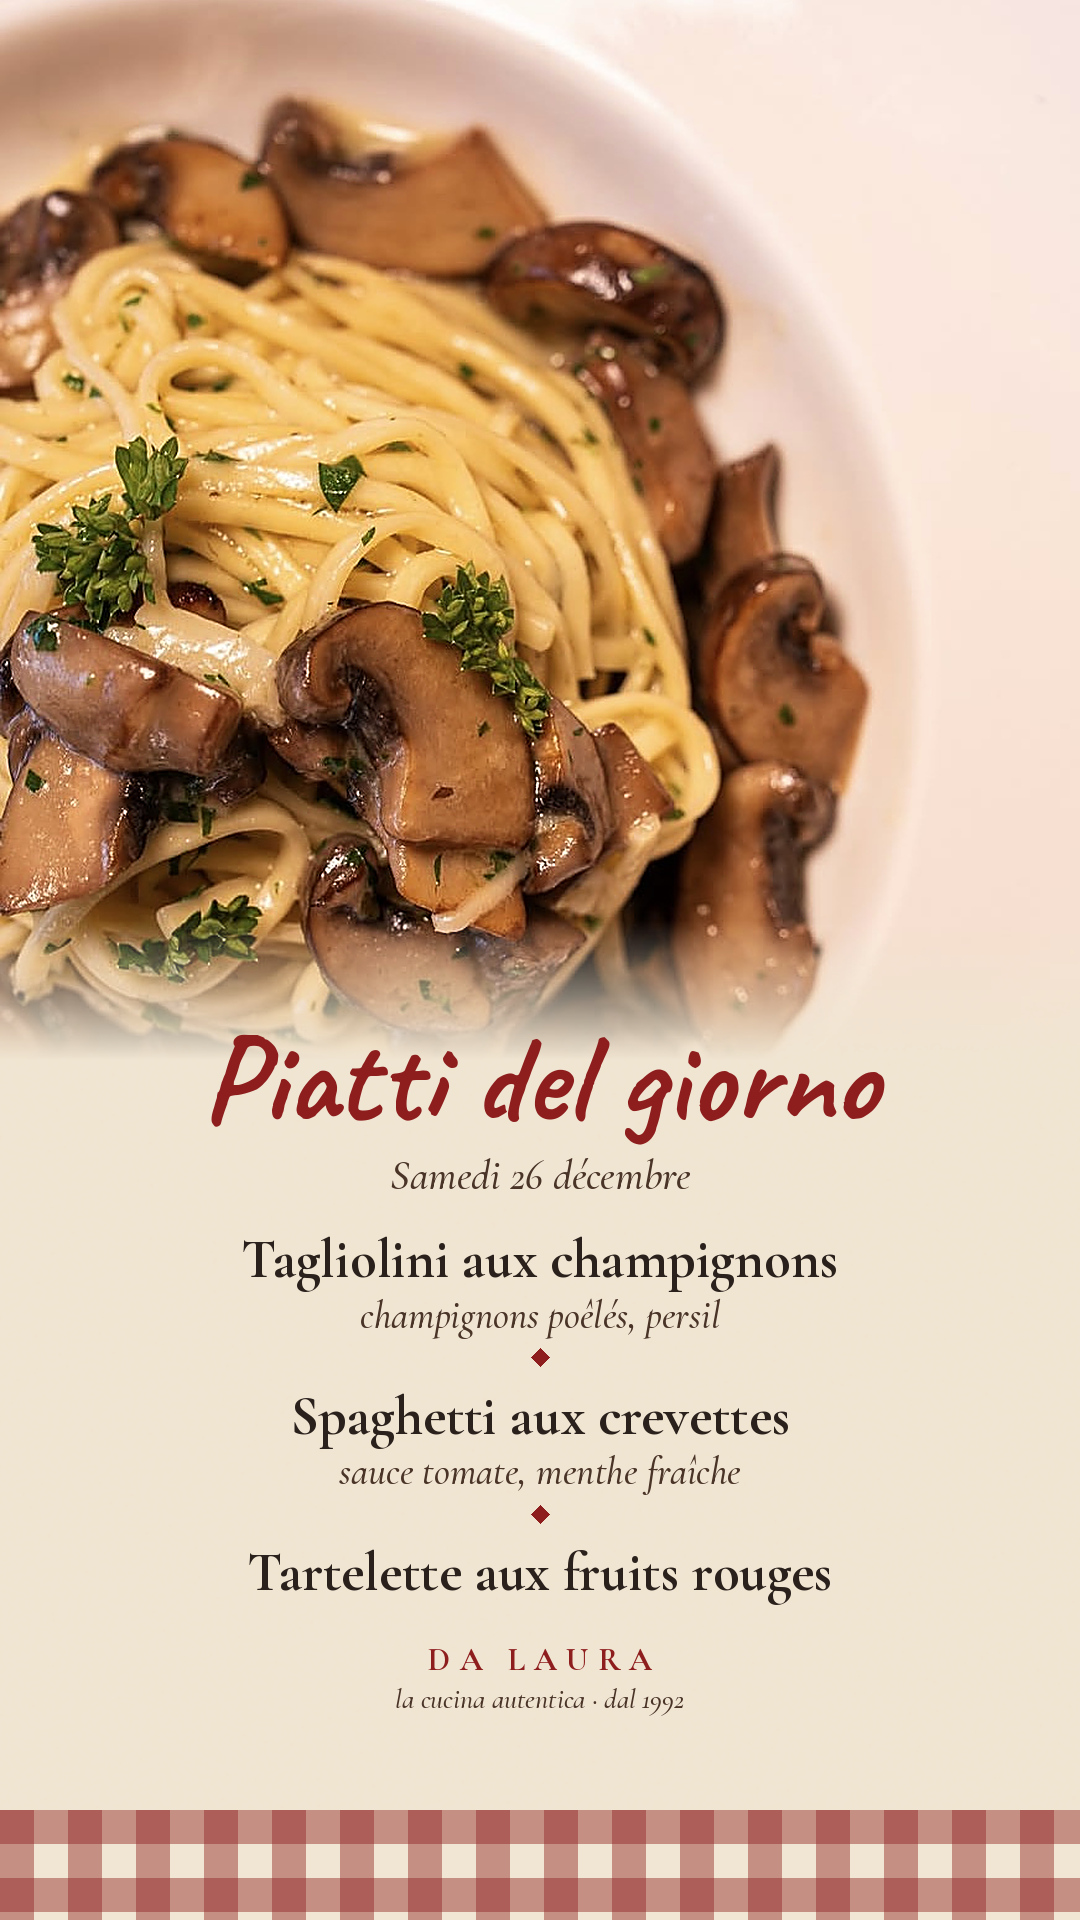
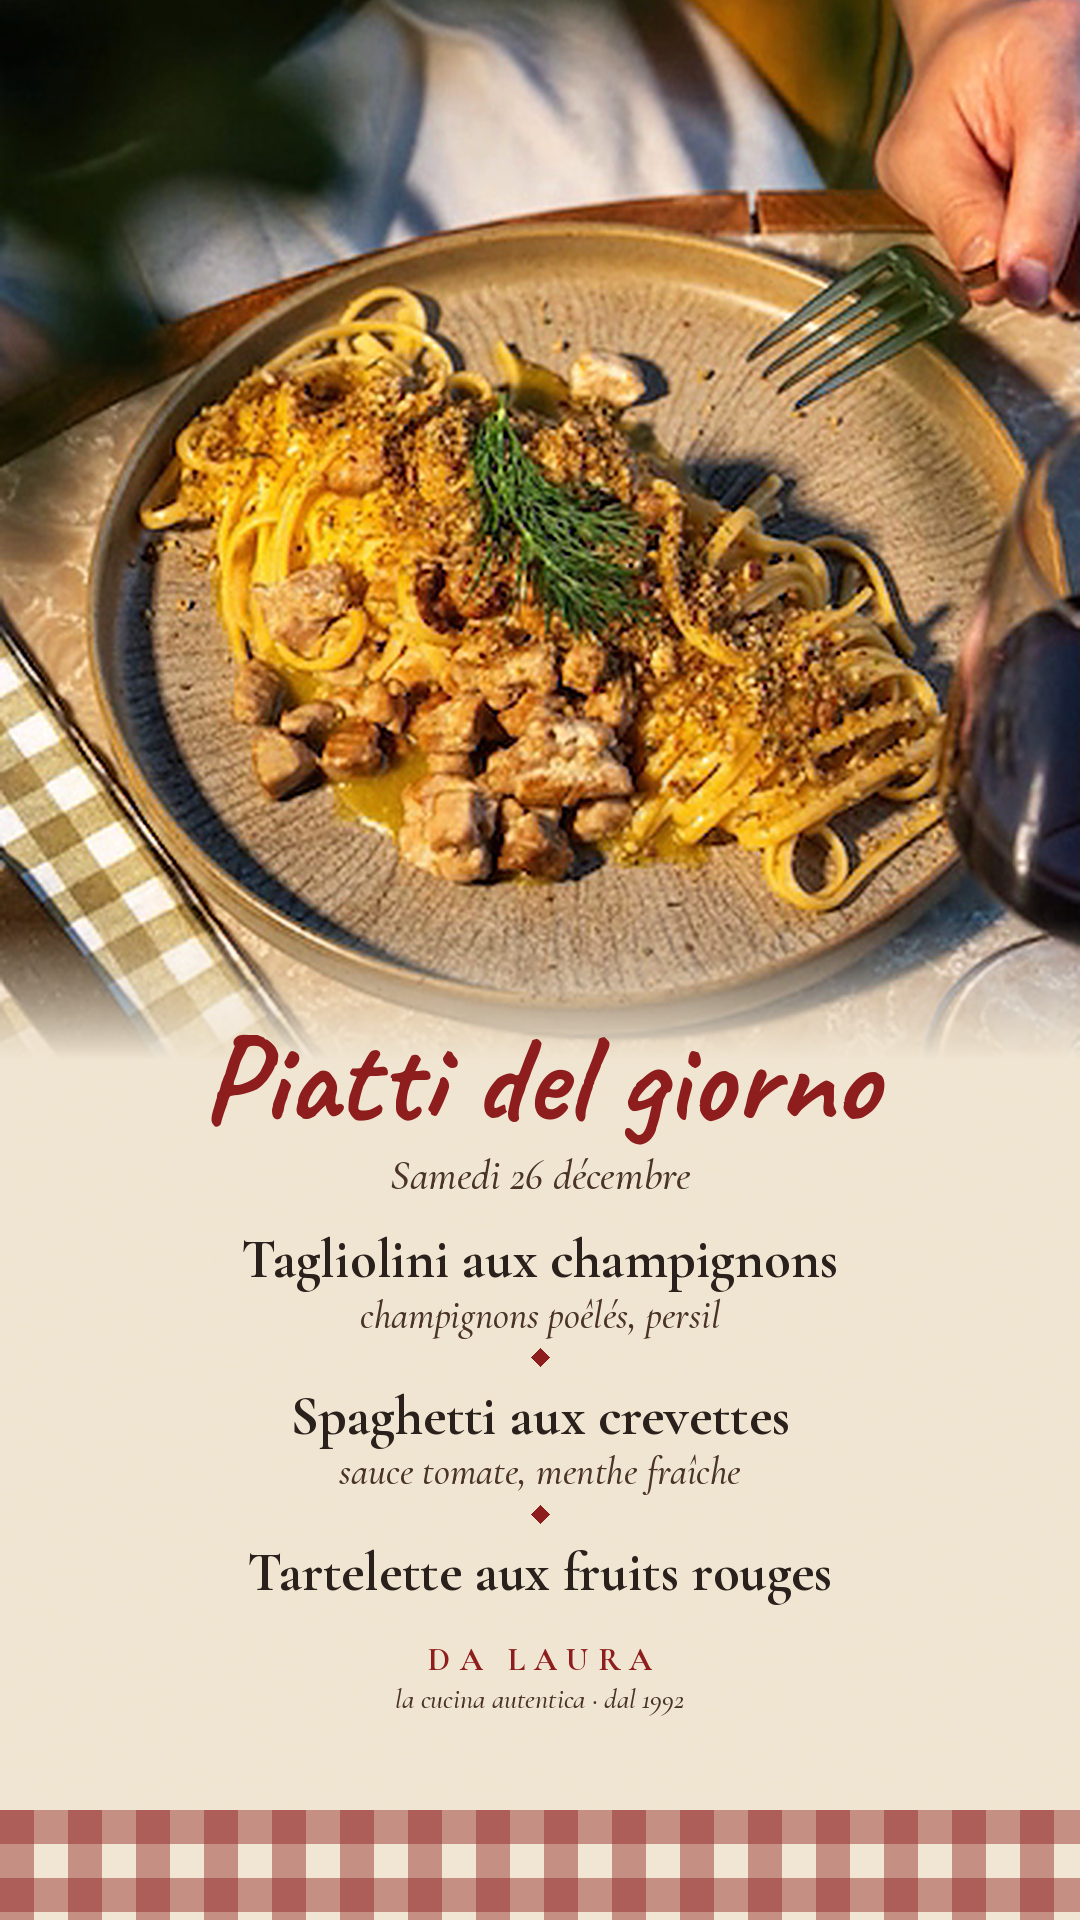
Une photo différente pour chacune des 20 stories, plats du jour récupérés au restaurant (page, PDF, docs)
Claude-Session: https://claude.ai/code/session_01Ju11vapNNa6jvJp3cEzxBc

diff --git a/CLAUDE.md b/CLAUDE.md
@@ -91,7 +91,7 @@ Skill du projet : `.claude/skills/contenu-semaine/SKILL.md` (aussi `/contenu-sem
 - Contrat : formule **Essentielle** adaptée, soit **8 publications, 2 réels et 20 stories « Piatti del giorno » par mois**. Ne pas proposer plus sans le présenter comme une option payante.
 - Plateformes du contrat : **Instagram et TikTok** (les 2 vidéos du mois vont sur les deux). **Facebook n'est pas inclus** : option à 100 € par mois proposée à Laura le 24/11/2026, en attente. Les 20 stories sont des stories Instagram. TikTok ne passe pas par Meta Business Suite : il se programme à part. Même sans l'option Facebook, l'accès à la **page Facebook** est nécessaire : c'est par elle (Meta Business Suite) qu'Instagram passe en compte professionnel, est programmé et donne ses statistiques. Ne rien publier sur Facebook tant que l'option n'est pas acceptée.
 - Stories de plats du jour : `python3 outils/plats_du_jour.py plats-du-jour/da-laura-AAAA-MM.txt ` (style quotidien par défaut : `suggestions`, une photo du restaurant en fond, qui change chaque jour, avec les suggestions écrites dessus ; autres styles : `--style ardoise|enseigne|photo`). Pour imposer une photo un jour donné, ajouter `photo: chemin` sous la date.
-- **Rituel hebdomadaire** : une fois par semaine, l'utilisatrice envoie les plats du jour avec les jours précis. Les retranscrire fidèlement dans `plats-du-jour/da-laura-AAAA-MM.txt`, générer, vérifier chaque image (ouvrir au moins une story), puis **envoyer les images** à l'utilisatrice et committer.
+- **Rituel hebdomadaire** : une fois par semaine, l'utilisatrice **va elle-même chercher les plats du jour au restaurant** (Laura n'a rien à envoyer : ne jamais écrire le contraire dans un document pour Laura), puis me les transmet avec les jours précis. Les retranscrire fidèlement dans `plats-du-jour/da-laura-AAAA-MM.txt`, générer, vérifier chaque image (ouvrir au moins une story), puis **envoyer les images** à l'utilisatrice et committer.
 - **Qualité « pro »** : jamais de flou ajouté sur la photo. Le script avertit quand une photo est en basse résolution (ex. capture Instagram de 960 px) : le signaler et demander l'original. Les photos contenant déjà du texte (ardoise, menu) sont exclues des fonds automatiques. Quand l'utilisateur envoie une photo de l'ardoise ou une liste de plats, la retranscrire fidèlement dans le fichier du mois (sans inventer de plat ni de prix) puis générer.
 
 ## Charte photo Da Laura
@@ -104,6 +104,7 @@ Skill du projet : `.claude/skills/contenu-semaine/SKILL.md` (aussi `/contenu-sem
 ## Pages de présentation (artifacts)
 
 - Toujours **intégrer les images dans la page** (data URI), jamais en fichiers séparés : certaines applications (iPad) ne les affichent pas sinon. Vérifier avant publication que toutes les images se chargent avec la page seule.
+- Stories d'un même mois : **une photo de fond différente pour chacune** (pas de répétition sur les 20 stories) ; à défaut de photos en haute définition, utiliser celles du compte (`compte-instagram/recadrees/`), de préférence dans les mises en page où la photo est petite (duo, polaroid).
 - Chaque page (artifact) est **aussi enregistrée en PDF dans Drive** (04 - Documents), rendue d'une seule page avec Playwright (`page.pdf`, fond imprimé) : l'utilisatrice la retrouve et peut l'envoyer sans lien. La remplacer à chaque mise à jour de la page.
 - Le partage d'une page (ex. avec Laura) ne peut pas être fait par l'assistant : il se fait depuis le menu **Partager** de la page. Le rappeler à l'utilisatrice à chaque nouvelle page destinée à quelqu'un d'autre.
 

diff --git a/docs/lancement-decembre.md b/docs/lancement-decembre.md
@@ -22,7 +22,7 @@ Un **rétroplanning**, c'est un planning construit à l'envers : on part de la d
 | Jeu 26 nov. | L'assistant prépare le calendrier de décembre à faire valider (posts, réels, légendes), avec les photos reçues. **Vous l'envoyez à Laura.** |
 | **Ven 27 nov.** | Date limite des photos, du logo et des informations (horaires, menus de fêtes, histoire). **Transmettez-les à l'assistant dès réception** : il range les photos, applique la charte et régénère tous les visuels, les réels et les stories. |
 | **Sam 28 nov.** | **Validation de Laura.** Dites à l'assistant « Laura a validé… » : il passe les statuts à « validé client », prépare le pack et vous envoie les fichiers. |
-| **Lun 30 nov.** | **Plats du jour de la semaine 1** envoyés par Laura, puis transmis à l'assistant. Stories du 1er au 5 décembre livrées. **Programmer dans Meta Business Suite** les contenus de la semaine 1 en suivant `a-programmer/RECAP.md`, puis dire « c'est programmé ». |
+| **Lun 30 nov.** | **Plats du jour de la semaine 1** récupérés au restaurant, puis transmis à l'assistant. Stories du 1er au 5 décembre livrées. **Programmer dans Meta Business Suite** les contenus de la semaine 1 en suivant `a-programmer/RECAP.md`, puis dire « c'est programmé ». |
 | **Mar 1er déc.** | **Lancement.** Vérifier sur Instagram que la story et le carrousel sont bien en ligne. Répondre aux commentaires et aux messages dans la journée. |
 | Lun 7 déc. | Premier point sur les statistiques de la semaine (voir plus bas). |
 
@@ -33,7 +33,7 @@ Un **rétroplanning**, c'est un planning construit à l'envers : on part de la d
 | Les photos de la décoration de Noël ne sont pas arrivées le 28 | Le carrousel du 1er décembre (« Noël chez Da Laura ») est échangé avec « Les produits d'Italie » (14 décembre), déjà prêt avec de vraies photos. |
 | Les menus de fêtes ne sont pas connus le 30 | Le post du 3 décembre est décalé au moment où les menus sont prêts ; l'assistant propose un post de remplacement. |
 | L'accès Meta Business Suite n'est pas donné à temps | Laura publie elle-même les contenus de la semaine 1 avec le pack (les fichiers et les légendes sont prêts à copier). |
-| Pas de plats du jour reçus le lundi | Pas de story ce jour-là (on n'invente jamais un menu). Relance de Laura par SMS le lundi midi. |
+| Pas de plats du jour reçus le lundi | Pas de story ce jour-là (on n'invente jamais un menu). Appel au restaurant le lundi midi. |
 
 ## Le community management au quotidien (à retenir)
 

diff --git a/docs/charte-da-laura.md b/docs/charte-da-laura.md
@@ -54,4 +54,4 @@ Règles :
 
 ## 5. Le rythme
 
-Contrat Essentielle adapté : **20 stories « Piatti del giorno » par mois**, du mardi au samedi (à confirmer). Les plats sont envoyés une fois par semaine avec leurs jours, puis les images sont livrées prêtes à publier.
+Contrat Essentielle adapté : **20 stories « Piatti del giorno » par mois**, du mardi au samedi (à confirmer). Les plats du jour sont récupérés au restaurant une fois par semaine, avec leurs jours, puis les images sont livrées prêtes à publier.
